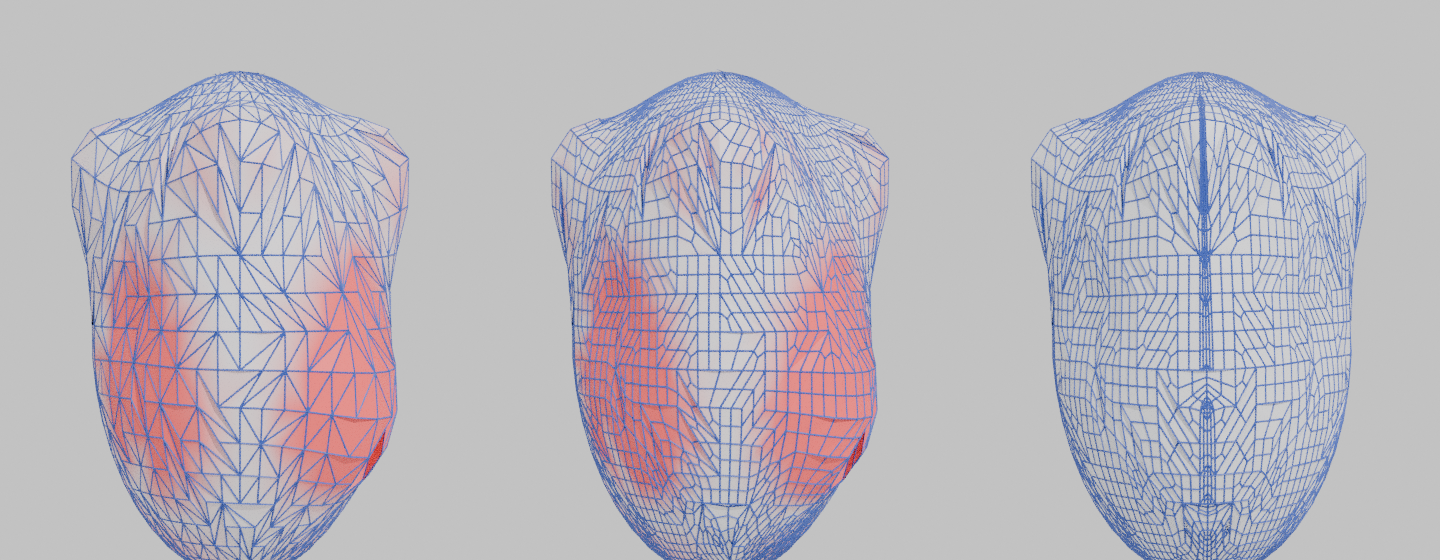
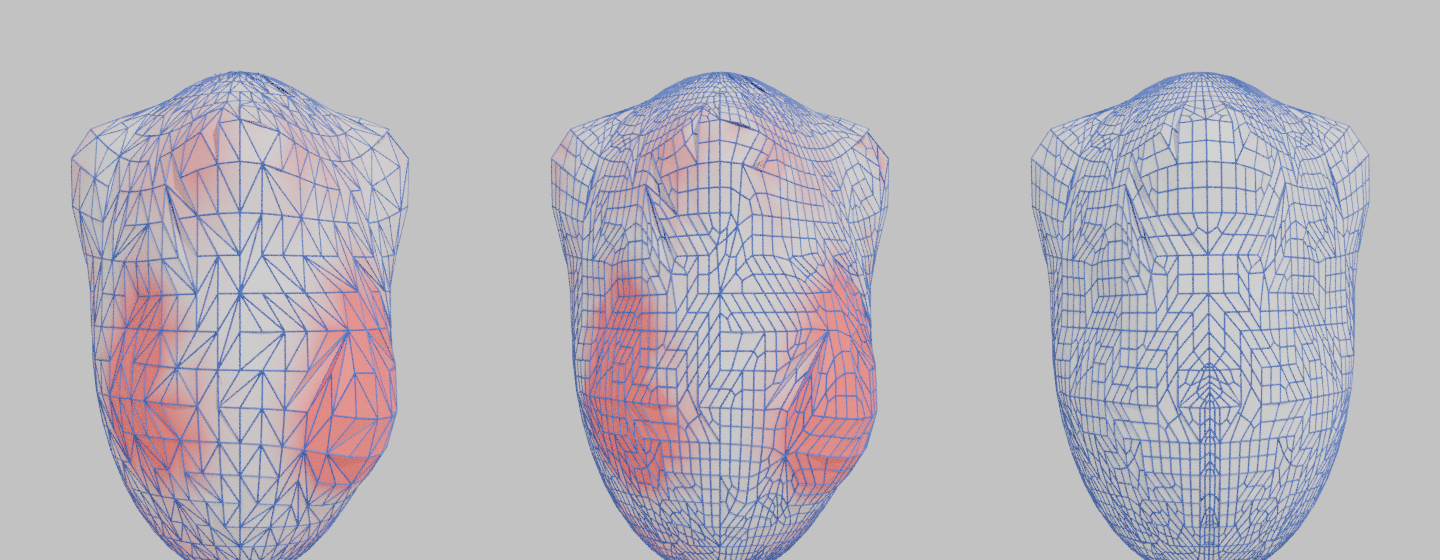
Symmetrize: seam clean-up (snap near-plane verts before the cut, weld, drop in-plane fins), seam regularity test, render redone
Claude-Session: https://claude.ai/code/session_01FQTVSyCcMVSazjTzMiGcBr

Changed region(s): [[0.7188, 0.1214, 0.9688, 1.0], [0.375, 0.1214, 0.625, 1.0], [0.0312, 0.1214, 0.2812, 1.0]]

diff --git a/arc_flow/core/retopo.py b/arc_flow/core/retopo.py
@@ -1174,6 +1174,16 @@ def _symmetry_setup(work, st, diag):
     R, t = plane_frame(det["normal"], det["point"])
     M = Matrix([[*R[0], t[0]], [*R[1], t[1]], [*R[2], t[2]], [0, 0, 0, 1]])
     work.transform(M)
+    # vertices that nearly lie on the plane join it before the cut: otherwise the bisect leaves sliver triangles (and,
+    # after the join, a dense line of sliver quads) along the seam
+    snapped = 0
+    for v in work.verts:
+        if v.link_edges:
+            el = sum(e.calc_length() for e in v.link_edges) / len(v.link_edges)
+            if 0.0 < abs(v.co.x) <= 0.25 * el:
+                v.co.x = 0.0
+                snapped += 1
+    rep["seam_snapped_vertices"] = snapped
     work.normal_update()
     st.use_symmetry = True
     st.axis = "X"
@@ -1285,6 +1295,22 @@ def remesh_bmesh(src_bm, st, quadriflow_fn=None, ref_bvh=None, ref_sample_V=None
         loose = [v for v in bm.verts if not v.link_faces]
         if loose:
             bmesh.ops.delete(bm, geom=loose, context='VERTS')
+        # weld seam vertices that the cut left much closer than the local edge length, then drop what degenerated
+        seam_v = [v for v in bm.verts if v.co[ax] == 0.0]
+        if len(seam_v) > 3:
+            seam_set = set(seam_v)
+            lens = sorted(e.calc_length() for e in bm.edges if e.verts[0] in seam_set and e.verts[1] in seam_set)
+            if lens:
+                bmesh.ops.remove_doubles(bm, verts=seam_v, dist=0.05 * lens[len(lens) // 2])
+                for v in bm.verts:
+                    if abs(v.co[ax]) <= tol:
+                        v.co[ax] = 0.0
+                cleanup_bmesh(bm, 0.0, dissolve_degenerate=True, remove_loose=True, recalc_normals=False)
+        flat = [f for f in bm.faces if all(v.co[ax] == 0.0 for v in f.verts)]       # fins lying in the plane
+        if flat:
+            bmesh.ops.delete(bm, geom=flat, context='FACES')
+        rep["seam_welded"] = True
+        rep["seam_flat_faces_removed"] = len(flat)
         half = True
     join_to_quads(bm, st.join_angle, st.join_shape)
     seam_info = None

diff --git a/tests/test_retopo_bpy.py b/tests/test_retopo_bpy.py
@@ -592,6 +592,16 @@ def test_symmetrize():
                sz["kept_side"], rep["symmetry"].get("side_reason")))
         ok(rep["output"]["tris"] == 0, "%s: no odd triangles left (seam triangles %s)" % (side, rep["after_join"].get("seam")))
         res[side] = sz
+        if side == "AUTO":
+            bm = bmesh.new(); bm.from_mesh(new.data)
+            nn = np.array(sy["normal"]); pp = np.array(sy["point"])
+            Vn = np.array([v.co[:] for v in bm.verts]); dg = R._bbox_diag(Vn)
+            on = [f for f in bm.faces if any(abs((np.array(v.co[:]) - pp) @ nn) < 1e-4 * dg for v in f.verts)]
+            ar = np.array([f.calc_area() for f in bm.faces]); ao = np.array([f.calc_area() for f in on])
+            asp = np.array([max(e.calc_length() for e in f.edges) / max(min(e.calc_length() for e in f.edges), 1e-12) for f in on])
+            ok(len(on) > 20 and ao.min() > 0.01 * np.median(ar) and float((asp > 6).mean()) < 0.3,
+               "AUTO: seam faces regular (%d faces, min area %.3f of median, %.0f%% with aspect > 6)" % (len(on), ao.min() / np.median(ar), 100 * float((asp > 6).mean())))
+            bm.free()
     ok(res["AVERAGE"]["deviation_from_source"]["max"] < 0.8 * max(res["LEFT"]["deviation_from_source"]["max"], res["RIGHT"]["deviation_from_source"]["max"]) + 1e-4,
        "AVERAGE splits the error (max dev %.4f vs LEFT %.4f / RIGHT %.4f)" % (res["AVERAGE"]["deviation_from_source"]["max"],
                                                                             res["LEFT"]["deviation_from_source"]["max"], res["RIGHT"]["deviation_from_source"]["max"]))

diff --git a/docs/TECHNICAL.md b/docs/TECHNICAL.md
@@ -98,7 +98,7 @@ Arc Edge math (`core/arcedge.py`): circumference=(sqrt(3d))^2, area, volume, sph
 Resolution: 0.01..12 multiplier of the input quad-equivalent count (sum of (n-2)/2 per face; a triangulated input of T tris counts T/2). 1.0 = natural count of join/split (can be up to 4x when leftover n-gons force a split); other values steer to ~target (tested within 35%: 0.25, 0.5, 2.0 via Quadriflow). Predicted face count is shown in the panel.
 Source: Evaluated (modifiers of any stack position baked in; original and its stack untouched; result has no modifiers) or Base mesh. Tested with Mirror/Subsurf/Solidify/Bevel stacks in different orders, plus shape keys, vertex groups and materials (shape keys: the current evaluated coordinates are used; they are not transferred).
 Normals Outside: vectorised flood fill across manifold edges + per-component signed volume (closed) or centroid heuristic (open shells, reported); non-orientable edges are reported and left. Keep Custom Normals skips meshes with custom split normals.
-Symmetrize (retopo): enabled when a plane is detected with confidence >= the threshold (default 0.5, confidence = 1 - mean mirror deviation / 2% of the diagonal) and class is not asymmetric; a manually forced axis always acts. Trusted side: Left = +normal side of the detected plane, Right = -normal side, Auto = the side with more faces (counts within 3%: more integrated feature strength = sum of dihedral x edge length, then larger area), Average = Auto's side defines the topology and both sides move to the mean of the surface and its mirror image. Accurate path (JOIN_SPLIT): the plane is taken to x=0, the trusted half is bisected out, joined to quads (leftover triangles touching the seam get a second join with 1.75x the angle and 1.4x the shape limit, two rings deep), projected onto the source, then mirrored (bmesh mirror: exact vertex pairs, seam vertices on x=0). Strength s: the mirrored half is blended back towards its own source projection, p = lerp(proj(p), mirror, s) (0 = same topology but the source shape, 1 = exact mirror). Seam vertices are projected on the source and snapped onto the plane. Quadriflow: positions only (non-trusted vertices go to reflect(project(reflect(v))), seam snapped), topology is Quadriflow's own. Fast PAIR: positions + seam snap only; the output keeps the source triangulation, so quad topology is NOT mirror-paired and asymmetry is limited by the vertex sampling of each side; seam triangles are not re-joined. Fast REDUCE: the exact JOIN_SPLIT mirror on the working mesh with the plane passed in (reference BVH, samples and density points are taken into the plane frame, the result is transformed back); earlier versions assumed the plane was x=0 through the origin. Report (`symmetrize`): asymmetry_before/after (max, mean; reflected samples to the surface, fraction of the bounding diagonal), deviation_from_source (max, mean; output vertices to the original surface), side, strength, topology_mirrored, seam triangles before/after. Limits: with strength 1 the deviation from the source on the non-trusted side equals the source asymmetry there (that detail is replaced, by design); Average halves it on both sides; thin features whose mirror image falls on a different sheet project to the wrong sheet; sampled numbers on the fast path.
+Symmetrize (retopo): enabled when a plane is detected with confidence >= the threshold (default 0.5, confidence = 1 - mean mirror deviation / 2% of the diagonal) and class is not asymmetric; a manually forced axis always acts. Trusted side: Left = +normal side of the detected plane, Right = -normal side, Auto = the side with more faces (counts within 3%: more integrated feature strength = sum of dihedral x edge length, then larger area), Average = Auto's side defines the topology and both sides move to the mean of the surface and its mirror image. Accurate path (JOIN_SPLIT): the plane is taken to x=0, the trusted half is bisected out, joined to quads (leftover triangles touching the seam get a second join with 1.75x the angle and 1.4x the shape limit, two rings deep), projected onto the source, then mirrored (bmesh mirror: exact vertex pairs, seam vertices on x=0). Seam clean-up before the cut: vertices closer to the plane than 0.25 of their mean incident edge length are snapped onto it (otherwise the bisect leaves sliver triangles and, after the join, a dense line of sliver quads), after the cut seam vertices closer than 0.05 of the median seam edge are welded and faces lying flat in the plane are removed (report: seam_snapped_vertices, seam_flat_faces_removed; measured on the test ellipsoid: seam faces 632 -> about 330, minimum seam face area 0.04 of the median, 16% with aspect > 6). Strength s: the mirrored half is blended back towards its own source projection, p = lerp(proj(p), mirror, s) (0 = same topology but the source shape, 1 = exact mirror). Seam vertices are projected on the source and snapped onto the plane. Quadriflow: positions only (non-trusted vertices go to reflect(project(reflect(v))), seam snapped), topology is Quadriflow's own. Fast PAIR: positions + seam snap only; the output keeps the source triangulation, so quad topology is NOT mirror-paired and asymmetry is limited by the vertex sampling of each side; seam triangles are not re-joined. Fast REDUCE: the exact JOIN_SPLIT mirror on the working mesh with the plane passed in (reference BVH, samples and density points are taken into the plane frame, the result is transformed back); earlier versions assumed the plane was x=0 through the origin. Report (`symmetrize`): asymmetry_before/after (max, mean; reflected samples to the surface, fraction of the bounding diagonal), deviation_from_source (max, mean; output vertices to the original surface), side, strength, topology_mirrored, seam triangles before/after. Limits: with strength 1 the deviation from the source on the non-trusted side equals the source asymmetry there (that detail is replaced, by design); Average halves it on both sides; thin features whose mirror image falls on a different sheet project to the wrong sheet; sampled numbers on the fast path.
 
 Report: face counts, quad ratio, max deviation from the projection (both directions, fraction of bbox diagonal), symmetry error, poles (valence 3 / 5+), bad quads.
 Symmetry (no origin / orientation assumption): the plane is found in the mesh's own coordinates, wherever the object sits and however it is rotated or scaled (uniformly). Surface samples (vertices + face centroids, deterministic stride) give an area-weighted centroid and PCA axes; candidate plane normals are the three principal axes (plus a ring of directions when two eigenvalues are nearly equal); each candidate is scored by reflecting the samples and measuring the distance to the surface projection (BVH): score = mean/2 + 95th percentile/2 of the distance over the bounding diagonal. The best is refined by coordinate descent on two tilt angles and the offset along the normal, and snapped to a local axis through the origin when it is that. Confidence classes: symmetric (p95 < 0.3%, mean < 0.1% of the diagonal), near-symmetric (mean < 2% and 80% of samples within 2%), asymmetric. The report carries class, confidence, mean/p95, normal, point, asymmetric fraction and which half was kept (the half with more surface area). Symmetric / near-symmetric: the half is quadrangulated and reflected, so topology is exactly symmetric about the detected plane (the deviation from the source, which includes any asymmetric detail that was replaced, is in the quality report). Asymmetric: nothing is mirrored and it says so. Manual: "Symmetry" checkbox forces the local X/Y/Z axis (only the offset is searched, kept at 0 if already exact); Automatic off + checkbox off disables it. Tested: random rotation/scale/translation gives the same plane within 2 degrees and 1% of the diagonal and a face count within 10% (7.5% seen), flipped-diagonal triangulations become symmetric all-quad, an asymmetric blob is reported asymmetric and not mirrored. Limits: only the single best plane is used (no multi-plane handling for a bolt), non-uniform scale breaks the reflection model, genuinely asymmetric regions of a near-symmetric mesh are replaced by the mirrored half rather than left unmirrored (reported as deviation), and quad layout is not seeded/grown from the most symmetric small regions: join/split is Blender's deterministic pairing on the kept half. Already-quad inputs go through the same pipeline (topology is cleaned/made symmetric, not preserved verbatim); voxelised surfaces are untested.
